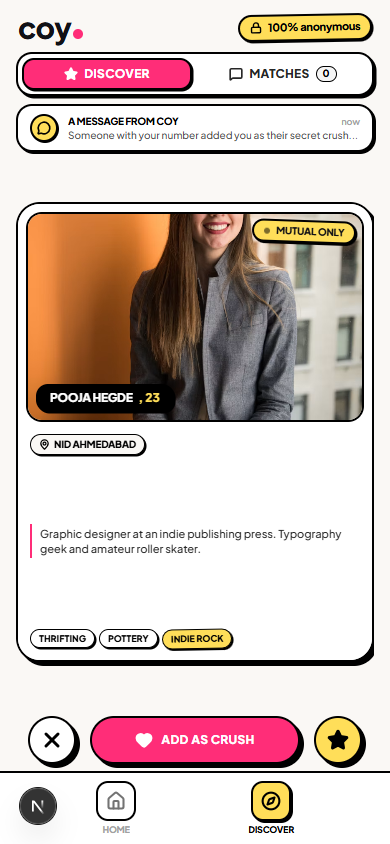
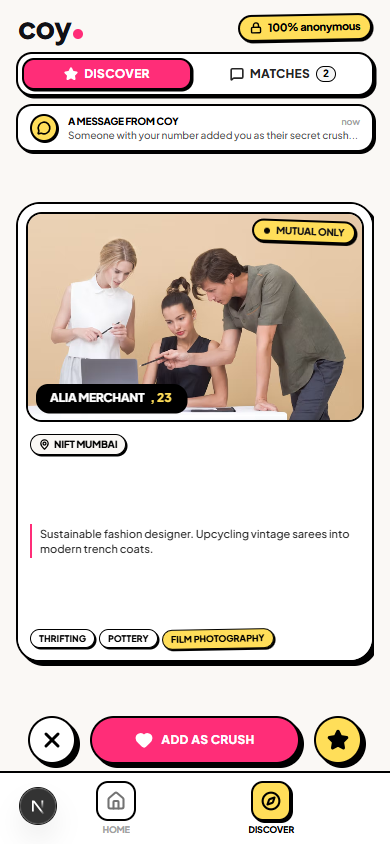
feat(home): build catchy Neobrutalist showcase landing page on Home tab

diff --git a/web/features/home/components/FaqSection.tsx b/web/features/home/components/FaqSection.tsx
@@ -1,0 +1,117 @@
+"use client";
+
+import React, { useState } from "react";
+import Link from "next/link";
+import { ChevronDown, Sparkles, ArrowRight } from "lucide-react";
+
+const FAQS = [
+  {
+    q: "What is Coy?",
+    a: "Coy is a privacy-first, double-blind crush app. You add people you secretly adore. If they add you too, you match. Otherwise, nobody ever knows.",
+  },
+  {
+    q: "Can they work out it was me?",
+    a: "Nope! We never reveal inbound likes, counts, or clues. Your crush only finds out if they independently crush on you too.",
+  },
+  {
+    q: "What if they're not on Coy yet?",
+    a: "When they eventually join and add you, the match triggers automatically! Your secret crush stays locked in encrypted storage.",
+  },
+  {
+    q: "Is it really free?",
+    a: "Your first 3 crushes are 100% free forever. No subscriptions or hidden credit cards required.",
+  },
+] as const;
+
+export function FaqSection(): React.JSX.Element {
+  const [openIdx, setOpenIdx] = useState<number | null>(0);
+
+  return (
+    <section className="px-5 py-5 flex flex-col gap-5 border-t-[2.5px] border-black bg-[#FAF8F5]">
+      {/* Pricing Teaser */}
+      <div>
+        <div className="flex items-center gap-1.5 mb-1">
+          <span className="text-[10px] font-black uppercase text-black">Launch Promo</span>
+          <span className="bg-coy-pink text-white text-[9px] font-black px-1.5 py-0.2 rounded border border-black uppercase">
+            Free
+          </span>
+        </div>
+        <h3 className="text-lg font-black text-black uppercase font-display leading-tight">
+          Your first 3 crushes are free.
+        </h3>
+
+        <div className="grid grid-cols-3 gap-2 mt-3">
+          <div className="bg-white border-[2px] border-black rounded-xl p-2.5 text-center shadow-brutal-xs">
+            <span className="text-[9px] font-black uppercase text-neutral-500">+1 Crush</span>
+            <p className="text-sm font-black text-black mt-0.5">₹49</p>
+          </div>
+          <div className="bg-rose-50 border-[2px] border-black rounded-xl p-2.5 text-center shadow-brutal-xs">
+            <span className="text-[9px] font-black uppercase text-coy-pink">+3 Crushes</span>
+            <p className="text-sm font-black text-black mt-0.5">₹129</p>
+          </div>
+          <div className="bg-coy-yellow border-[2px] border-black rounded-xl p-2.5 text-center shadow-brutal-xs relative">
+            <span className="text-[8px] font-black uppercase bg-black text-coy-yellow px-1 rounded absolute -top-2 left-1/2 -translate-x-1/2">
+              BEST
+            </span>
+            <span className="text-[9px] font-black uppercase text-black">+5 Crushes</span>
+            <p className="text-sm font-black text-black mt-0.5">₹199</p>
+          </div>
+        </div>
+      </div>
+
+      {/* Accordion Questions */}
+      <div>
+        <h3 className="text-base font-black text-black uppercase font-display mb-2.5">
+          Questions?
+        </h3>
+        <div className="flex flex-col gap-2">
+          {FAQS.map(({ q, a }, idx) => {
+            const isOpen = openIdx === idx;
+            return (
+              <div
+                key={q}
+                className="bg-white border-[2px] border-black rounded-xl overflow-hidden shadow-brutal-xs"
+              >
+                <button
+                  type="button"
+                  onClick={() => setOpenIdx(isOpen ? null : idx)}
+                  className="w-full p-2.5 px-3 flex items-center justify-between text-left font-black text-xs uppercase tracking-tight text-black"
+                >
+                  <span>{q}</span>
+                  <ChevronDown
+                    size={14}
+                    strokeWidth={2.8}
+                    className={`transition-transform duration-200 ${isOpen ? "rotate-180" : ""}`}
+                  />
+                </button>
+                {isOpen && (
+                  <div className="px-3 pb-3 pt-0.5 text-[11px] font-medium text-neutral-600 leading-relaxed border-t border-neutral-100">
+                    {a}
+                  </div>
+                )}
+              </div>
+            );
+          })}
+        </div>
+      </div>
+
+      {/* Final Catchy Pink Banner Card */}
+      <div className="bg-coy-pink border-[2.5px] border-black rounded-2xl p-4 text-white shadow-brutal flex flex-col items-center text-center gap-2">
+        <Sparkles size={22} className="text-coy-yellow fill-coy-yellow" />
+        <h4 className="text-base font-black uppercase tracking-tight font-display leading-tight">
+          Someone you know might already have added you.
+        </h4>
+        <p className="text-[10.5px] font-medium text-pink-100 max-w-[220px]">
+          Don&apos;t keep them wondering in silence. See who is waiting on Discover!
+        </p>
+        <Link
+          href="/discover"
+          className="brutal-btn mt-1 inline-flex items-center gap-1.5 py-2 px-5 rounded-full bg-coy-yellow border-[2px] border-black text-black font-black text-xs uppercase tracking-wider shadow-brutal-xs"
+        >
+          <span>Start Swiping</span>
+          <ArrowRight size={13} strokeWidth={3} />
+        </Link>
+      </div>
+    </section>
+  );
+}

diff --git a/web/features/home/components/HomeHero.tsx b/web/features/home/components/HomeHero.tsx
@@ -1,0 +1,82 @@
+"use client";
+
+import React from "react";
+import Link from "next/link";
+import { Lock, Heart, MessageCircle } from "lucide-react";
+
+export function HomeHero(): React.JSX.Element {
+  return (
+    <section className="px-5 pt-4 pb-6 flex flex-col gap-4">
+      {/* Brand Header */}
+      <div className="flex items-center justify-between">
+        <div className="flex items-baseline">
+          <span className="font-black text-3xl tracking-tight text-black lowercase leading-none">
+            coy
+          </span>
+          <span className="w-2.5 h-2.5 rounded-full bg-coy-pink inline-block ml-0.5" />
+        </div>
+
+        <div className="flex items-center gap-1.5 border-[2px] border-black bg-coy-yellow px-2.5 py-1 rounded-full text-xs font-black shadow-brutal-xs">
+          <Lock size={12} strokeWidth={2.8} />
+          <span className="text-[10px]">100% anonymous</span>
+        </div>
+      </div>
+
+      {/* Main Catchy Hero Headline */}
+      <div className="pt-2">
+        <h1 className="text-3xl font-black text-black uppercase tracking-tight leading-[1.08] font-display">
+          Find out if your crush likes you back.
+        </h1>
+        <p className="text-xs font-medium text-neutral-600 mt-2.5 leading-relaxed">
+          Add them secretly. If they add you too, sparks fly 💥. If not, nobody ever knows (your secret is safe with us forever).
+        </p>
+      </div>
+
+      {/* CTA Button */}
+      <Link
+        href="/discover"
+        className="brutal-btn w-full py-3.5 px-6 rounded-full bg-coy-pink border-[2.5px] border-black text-white font-black text-xs uppercase tracking-wide flex items-center justify-center gap-2 shadow-brutal"
+      >
+        <Heart size={16} strokeWidth={2.8} fill="white" />
+        <span>Add Your Crushes</span>
+      </Link>
+      <span className="text-[10px] text-center font-bold text-neutral-400 -mt-2">
+        Free for your first 3 crushes • 100% private
+      </span>
+
+      {/* Interactive Floating Preview Cards (from screenshot 1) */}
+      <div className="relative pt-2 pb-1 flex flex-col gap-2.5">
+        {/* Card 1: Mysterious Coy Notification */}
+        <div className="bg-white border-[2.5px] border-black rounded-2xl p-3 shadow-brutal-sm -rotate-1">
+          <div className="flex items-center gap-2 mb-1">
+            <div className="w-6 h-6 rounded-full bg-coy-yellow border-[1.5px] border-black flex items-center justify-center">
+              <MessageCircle size={12} strokeWidth={2.8} className="text-black" />
+            </div>
+            <span className="text-[10px] font-black uppercase text-black">A message from Coy</span>
+            <span className="text-[9px] font-bold text-neutral-400 ml-auto">now</span>
+          </div>
+          <p className="text-[10px] leading-snug font-medium text-neutral-700">
+            Heads up: Someone who has your number added you as their secret crush on Coy... 👀
+          </p>
+        </div>
+
+        {/* Card 2: Match Preview */}
+        <div className="bg-coy-pink border-[2.5px] border-black rounded-2xl p-3.5 text-white shadow-brutal rotate-1">
+          <div className="flex items-center justify-center gap-0 mb-2">
+            <div className="w-9 h-9 rounded-full bg-white border-[2px] border-black flex items-center justify-center text-black font-black text-xs">
+              You
+            </div>
+            <div className="w-6 h-6 rounded-full bg-coy-yellow border-[2px] border-black flex items-center justify-center -mx-1.5 z-10">
+              <Heart size={11} strokeWidth={3} fill="black" className="text-black" />
+            </div>
+            <div className="w-9 h-9 rounded-full bg-white border-[2px] border-black flex items-center justify-center text-black font-black text-xs">
+              Riya
+            </div>
+          </div>
+          <p className="text-center font-black text-sm uppercase tracking-tight">It&apos;s a match!</p>
+          <p className="text-center text-[10px] text-pink-100 font-medium">You and Riya from 3rd floor added each other</p>
+        </div>
+      </div>
+    </section>
+  );
+}

diff --git a/web/features/home/components/HowItWorks.tsx b/web/features/home/components/HowItWorks.tsx
@@ -1,0 +1,92 @@
+"use client";
+
+import React from "react";
+import { Check, Edit3, Mail, Heart } from "lucide-react";
+
+const STEPS = [
+  {
+    num: "1",
+    title: "Add your crushes",
+    desc: "Up to 3 people you know by phone, campus, or vibe. Strictly locked.",
+    Icon: Edit3,
+    bg: "bg-white",
+  },
+  {
+    num: "2",
+    title: "They get a heads-up",
+    desc: "Discreet anonymous nudge. Never who. Zero awkward encounters.",
+    Icon: Mail,
+    bg: "bg-amber-50",
+  },
+  {
+    num: "3",
+    title: "Mutual crush? Sparks fly!",
+    desc: "You both see the match and celebrate. If not, nobody ever knows.",
+    Icon: Heart,
+    bg: "bg-rose-50",
+  },
+] as const;
+
+const PERKS = [
+  "We never say who. Not directly, and never through sneaky hints.",
+  "Adding is final. No undoing to test who likes who.",
+  "Discreet notifications only. Never annoying spams.",
+  "Encrypted & double-blind. Keyed hashes keep secrets safe.",
+];
+
+export function HowItWorks(): React.JSX.Element {
+  return (
+    <section className="px-5 py-4 flex flex-col gap-5 border-t-[2.5px] border-black bg-white">
+      <div>
+        <span className="text-[10px] font-black uppercase text-coy-pink tracking-wider">
+          Simple & Stealthy
+        </span>
+        <h2 className="text-xl font-black text-black uppercase tracking-tight font-display mt-0.5">
+          How it works
+        </h2>
+      </div>
+
+      {/* 3 Step Cards */}
+      <div className="flex flex-col gap-2.5">
+        {STEPS.map(({ num, title, desc, Icon, bg }) => (
+          <div
+            key={num}
+            className={`${bg} border-[2px] border-black rounded-2xl p-3 shadow-brutal-sm flex items-start gap-3`}
+          >
+            <div className="w-8 h-8 rounded-xl bg-coy-yellow border-[2px] border-black flex items-center justify-center font-black text-xs shrink-0">
+              {num}
+            </div>
+            <div className="flex-1 min-w-0">
+              <div className="flex items-center gap-1.5">
+                <span className="font-black text-xs uppercase text-black">{title}</span>
+                <Icon size={12} strokeWidth={2.8} className="text-coy-pink" />
+              </div>
+              <p className="text-[10.5px] text-neutral-600 font-medium leading-tight mt-0.5">{desc}</p>
+            </div>
+          </div>
+        ))}
+      </div>
+
+      {/* What if they don't add back guarantee */}
+      <div className="bg-[#FAF8F5] border-[2.5px] border-black rounded-2xl p-4 shadow-brutal-sm">
+        <h3 className="font-black text-sm uppercase text-black">
+          What if they don&apos;t add you back?
+        </h3>
+        <p className="font-black text-xs text-coy-pink uppercase tracking-tight mt-0.5 mb-3">
+          Nothing happens. Absolutely zero.
+        </p>
+
+        <div className="space-y-2">
+          {PERKS.map((perk) => (
+            <div key={perk} className="flex items-start gap-2">
+              <div className="w-4 h-4 rounded-full bg-[#22C55E] border border-black flex items-center justify-center shrink-0 mt-0.5">
+                <Check size={10} strokeWidth={3} className="text-black" />
+              </div>
+              <p className="text-[10.5px] text-neutral-700 font-semibold leading-tight">{perk}</p>
+            </div>
+          ))}
+        </div>
+      </div>
+    </section>
+  );
+}

diff --git a/web/app/(tabs)/layout.tsx b/web/app/(tabs)/layout.tsx
@@ -16,6 +16,7 @@ export default function TabsLayout({
   children: React.ReactNode;
 }): React.JSX.Element {
   const pathname = usePathname();
+  const isHome = pathname.startsWith("/home");
 
   return (
     <div className="min-h-dvh h-dvh flex flex-col items-center justify-center bg-zinc-900 sm:p-4 select-none antialiased overflow-hidden">
@@ -32,7 +33,11 @@ export default function TabsLayout({
         />
 
         {/* Main content view */}
-        <main className="flex-1 flex flex-col overflow-hidden pb-16 bg-[#FAF8F5]">
+        <main
+          className={`flex-1 flex flex-col pb-16 bg-[#FAF8F5] ${
+            isHome ? "overflow-y-auto" : "overflow-hidden"
+          }`}
+        >
           {children}
         </main>
 

diff --git a/web/tests/smoke.spec.ts b/web/tests/smoke.spec.ts
@@ -17,11 +17,10 @@ test.describe("Coy Discover - 390px Mobile Viewport Smoke Test", () => {
     await expect(homeTab).toBeVisible();
     await expect(discoverTab).toBeVisible();
 
-    // Verify Home tab is completely blank
+    // Verify Home tab renders showcase page
     await homeTab.click();
     await expect(page).toHaveURL(/.*\/home/);
-    const mainContent = page.locator("main");
-    await expect(mainContent).toBeEmpty();
+    await expect(page.getByRole("heading", { name: /Find out if your crush/i })).toBeVisible();
 
     // Return to Discover
     await discoverTab.click();

diff --git a/web/app/(tabs)/home/page.tsx b/web/app/(tabs)/home/page.tsx
@@ -1,7 +1,12 @@
+import React from "react";
+import { HomeHero, HowItWorks, FaqSection } from "@/features/home/components";
+
 export default function HomePage(): React.JSX.Element {
   return (
-    <div className="flex-1 h-full flex items-center justify-center">
-      {/* Blank Home tab per specification */}
+    <div className="flex-1 flex flex-col bg-[#FAF8F5] pb-4">
+      <HomeHero />
+      <HowItWorks />
+      <FaqSection />
     </div>
   );
 }

diff --git a/web/features/home/components/index.ts b/web/features/home/components/index.ts
@@ -1,0 +1,3 @@
+export { HomeHero } from "./HomeHero";
+export { HowItWorks } from "./HowItWorks";
+export { FaqSection } from "./FaqSection";
